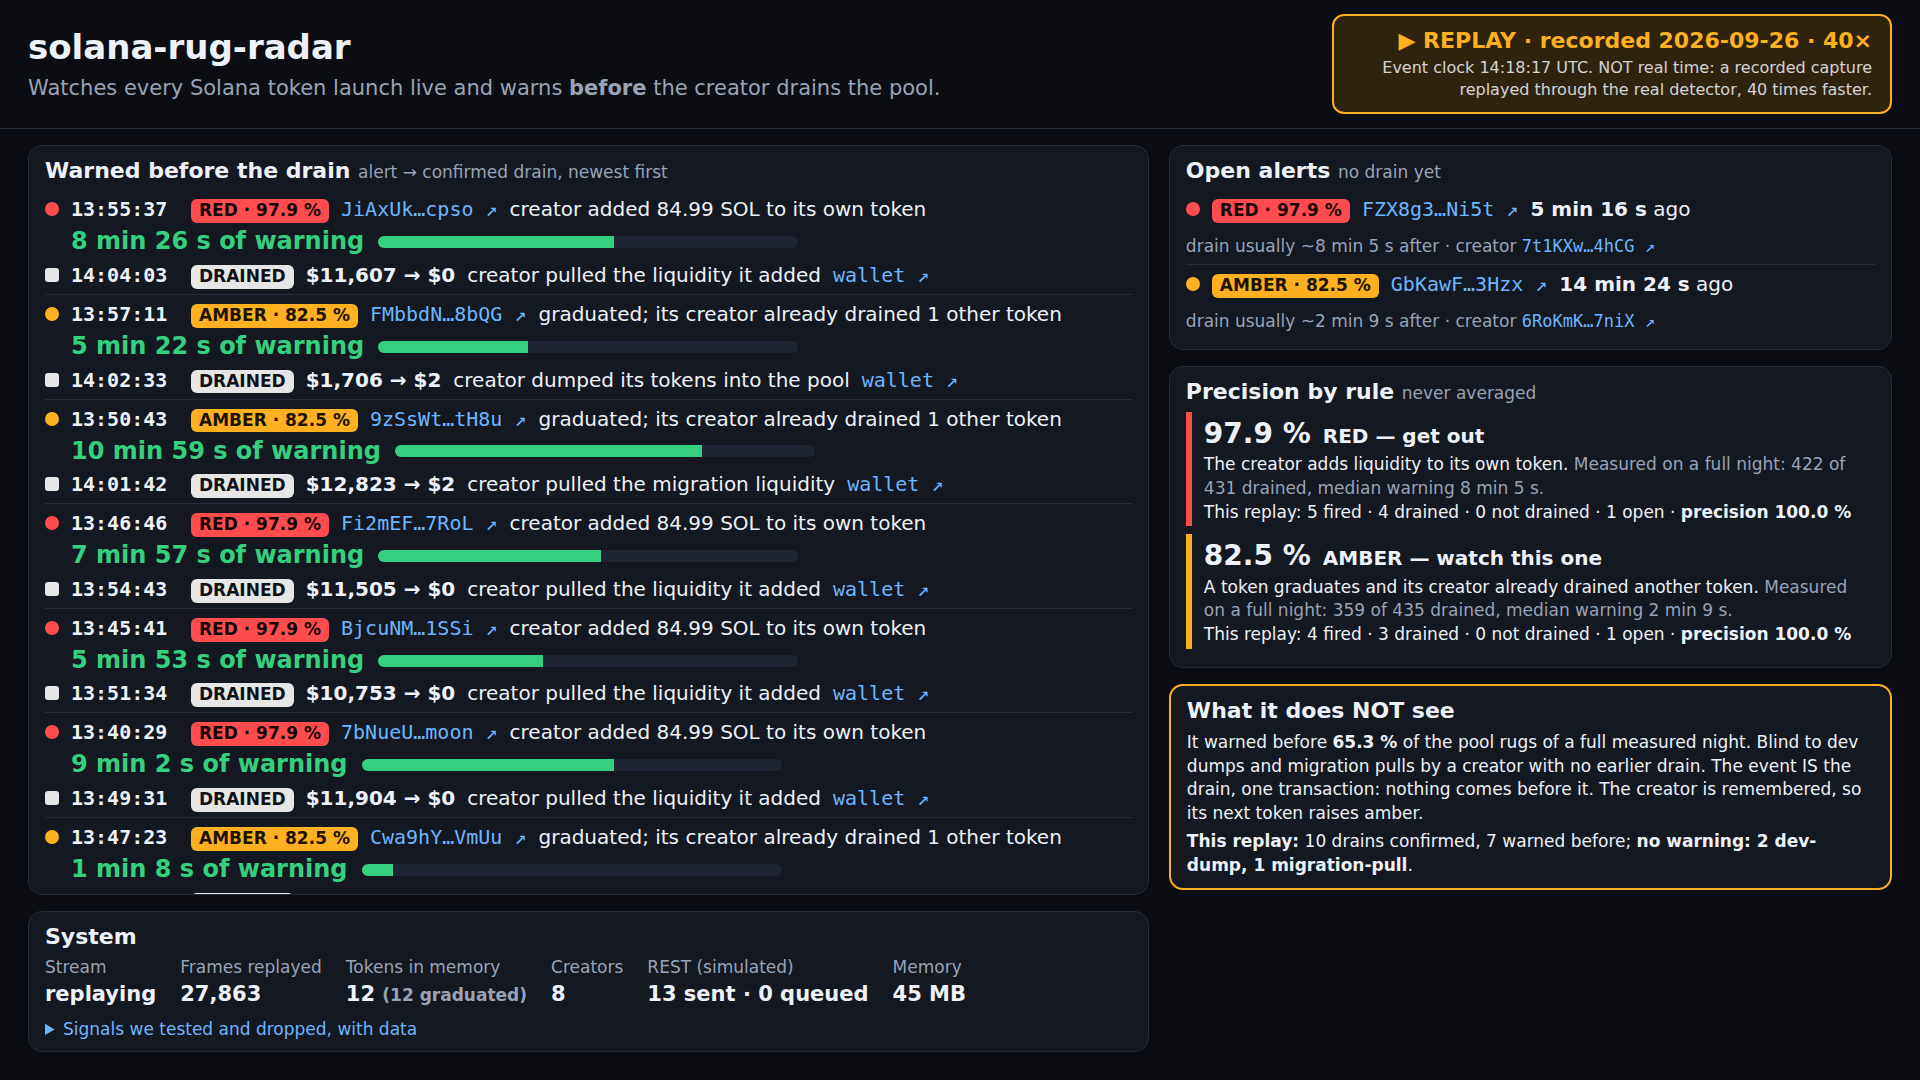
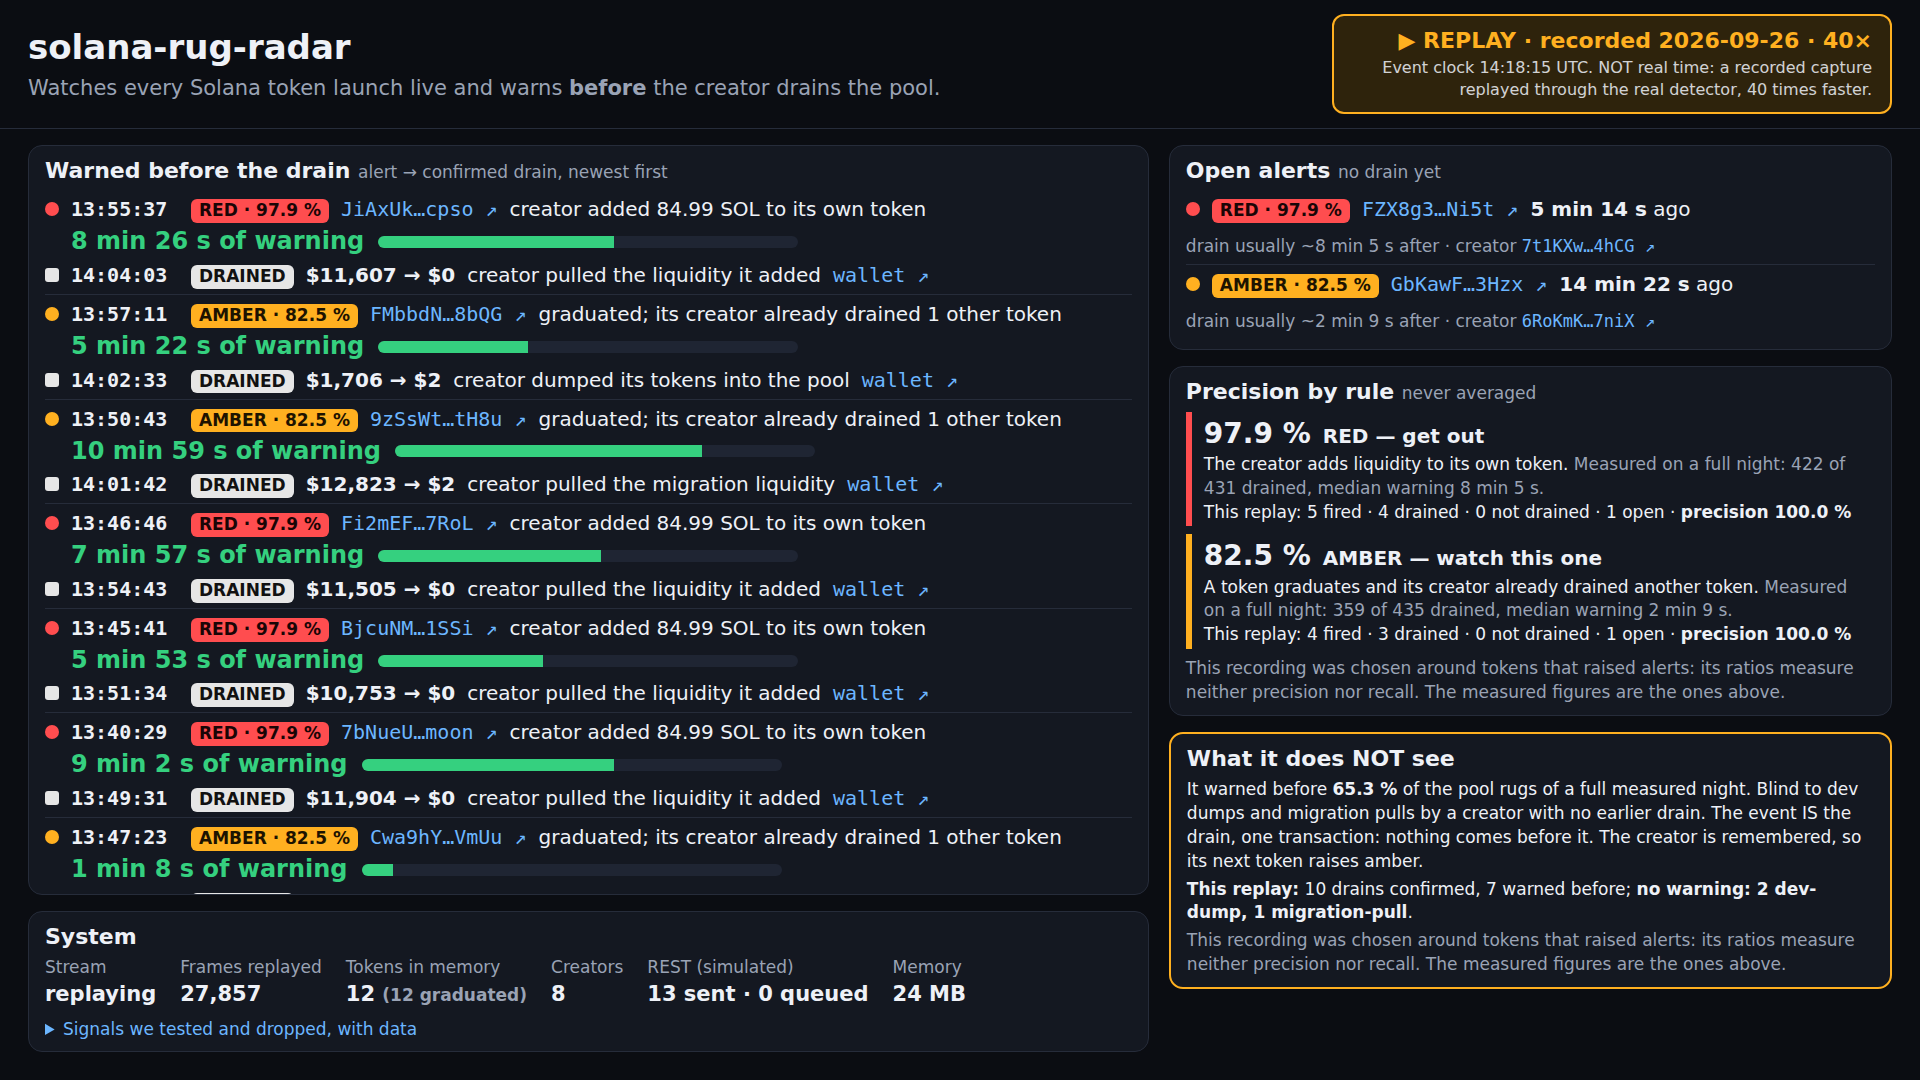
Dashboard: say the replay's own ratios are not precision or recall
The demo recording was chosen around tokens that raised alerts, so its counters run high
(13/16 drains warned, red "100 %") next to the measured 65.3 % and 97.9 %. In replay only,
a dimmed line under "Precision by rule" and "What it does NOT see" says so. It comes from
the view model (`selectionCaveat`: null live, where the bias does not exist).

Changed region(s): [[0.5938, 0.6111, 0.9688, 0.9167]]

diff --git a/src/dashboard/page.ts b/src/dashboard/page.ts
@@ -116,15 +116,16 @@ function render(v) {
   const unconf = v.unconfirmed.map((a) => '<div class="small row">' + dot(a.level) + link(a.tokenUrl, short(a.mint)) + '<span class="dim">' + hms(a.at) + ' · no drain within 60 min: counts against precision</span></div>').join('');
   $('open').innerHTML = (open || '<div class="empty">None right now.</div>') + more + (unconf ? '<div style="margin-top:6px"><b class="small">Alerted, but NOT drained</b>' + unconf + '</div>' : '');
 
+  const caveat = v.selectionCaveat === null ? '' : '<div class="small dim" style="margin-top:4px">' + esc(v.selectionCaveat) + '</div>';
   $('rules').innerHTML = v.rules.map((r) => '<div class="rule ' + r.level + '"><div class="row"><span class="big">' + pct(r.measured.precision) + '</span><b>' + esc(r.name) + '</b></div>' +
       '<div class="small">' + esc(r.meaning) + '. <span class="dim">Measured on a full night: ' + r.measured.confirmed + ' of ' + r.measured.fired + ' drained, median warning ' + dur(r.measured.medianLeadSeconds) + '.</span></div>' +
       '<div class="small">' + esc(v.scope) + ': ' + r.live.fired + ' fired · ' + r.live.confirmed + ' drained · ' + r.live.unconfirmed + ' not drained · ' + r.live.open + ' open' +
-      (r.live.precision === null ? '' : ' · <b>precision ' + pct(r.live.precision) + '</b>') + '</div></div>').join('');
+      (r.live.precision === null ? '' : ' · <b>precision ' + pct(r.live.precision) + '</b>') + '</div></div>').join('') + caveat;
 
   const s = v.blind.session;
   const unwarned = Object.entries(s.unwarnedByMechanism).map(([k, n]) => n + ' ' + esc(k)).join(', ');
   $('blind').innerHTML = '<h2>What it does NOT see</h2><div class="small">It warned before <b>' + pct(v.blind.measuredRecall) + '</b> of the pool rugs of a full measured night. Blind to ' + esc(v.blind.text) + '</div>' +
-      '<div class="small" style="margin-top:4px"><b>' + esc(v.scope) + ':</b> ' + s.rugs + ' drains confirmed, ' + s.warned + ' warned before' + (unwarned ? '; <b>no warning: ' + unwarned + '</b>' : '') + '.</div>';
+      '<div class="small" style="margin-top:4px"><b>' + esc(v.scope) + ':</b> ' + s.rugs + ' drains confirmed, ' + s.warned + ' warned before' + (unwarned ? '; <b>no warning: ' + unwarned + '</b>' : '') + '.</div>' + caveat;
 
   const y = v.system;
   const stat = (label, value) => '<div><div class="small dim">' + label + '</div><b>' + value + '</b></div>';

diff --git a/tests/dashboard/view.test.ts b/tests/dashboard/view.test.ts
@@ -5,7 +5,7 @@ import { describe, expect, it } from 'vitest';
 import { unixMillis, unixSeconds } from '../../src/core/time.js';
 import { Feed } from '../../src/dashboard/feed.js';
 import { PAGE } from '../../src/dashboard/page.js';
-import { buildView, MAX_OPEN, MEASURED_RECALL, RateMeter, type ViewInput } from '../../src/dashboard/view.js';
+import { buildView, MAX_OPEN, MEASURED_RECALL, RateMeter, SELECTION_CAVEAT, type ViewInput } from '../../src/dashboard/view.js';
 import { CONFIDENCE } from '../../src/detector/detector.js';
 import type { Alert, AlertLevel, DetectorStats, LevelStats, RugMechanism, RugRecord } from '../../src/detector/types.js';
 import { startHealthServer } from '../../src/ingest/health.js';
@@ -166,7 +166,18 @@ describe('dashboard view: live, replay and finished replay never look alike', ()
     expect(v.system.state).toBe('closed');
   });
 
-  it('before any event: no clock, no day, nothing invented', () => {
+  it('says the replay was chosen around alerted tokens (its ratios run high); never live, where it would be false', () => {
+    const live = view(feed, T, { source: source({ origin: 'live', state: 'live' }) });
+    expect(live.selectionCaveat).toBeNull();
+    expect(view(feed, T, { source: source({ origin: 'live', state: 'reconnecting' }), warmingUp: true }).selectionCaveat).toBeNull();
+    for (const state of ['replaying', 'closed'] as const) {
+      expect(view(feed, T, { source: source({ state }) }).selectionCaveat).toBe(SELECTION_CAVEAT);
+    }
+    expect(SELECTION_CAVEAT).toMatch(/chosen around tokens that raised alerts/);
+    expect(SELECTION_CAVEAT).toMatch(/neither precision nor recall/);
+  });
+
+    it('before any event: no clock, no day, nothing invented', () => {
     const v = view(new Feed(), null);
     expect(v).toMatchObject({ clock: null, day: null, sequences: [], open: [], unconfirmed: [] });
   });

diff --git a/src/dashboard/view.ts b/src/dashboard/view.ts
@@ -101,6 +101,11 @@ export interface DashboardView {
   readonly speed: number | null;
   /** What "so far" counts: this replay, or live including the registry's reloaded days. */
   readonly scope: string;
+  /**
+   * Replay only (null live): the demo recording was chosen around tokens that raised alerts, so its
+   * own ratios (drains warned, precision so far) run high and measure nothing. Live has no such bias.
+   */
+  readonly selectionCaveat: string | null;
   /** UTC date of the recording (replay) or of the stream. */
   readonly day: string | null;
   /** Event time, seconds. */
@@ -152,6 +157,9 @@ const MECHANISM: Record<RugMechanism, string> = {
   'sell-off': 'sold off by other wallets',
   'third-party-remove': 'liquidity removed by another wallet',
 };
+
+export const SELECTION_CAVEAT =
+  'This recording was chosen around tokens that raised alerts: its ratios measure neither precision nor recall. The measured figures are the ones above.';
 
 export const DROPPED_SIGNALS: readonly { signal: string; why: string }[] = [
   { signal: '> 10 launches in 24 h (alone)', why: '1.0 % precision: serial launchers mostly spam tokens that never graduate' },
@@ -262,6 +270,7 @@ export function buildView(input: ViewInput): DashboardView {
     connected: mode === 'live' && (source.state === 'live' || source.state === 'backfilling'),
     speed: mode === 'live' ? null : input.speed,
     scope: mode === 'live' ? `Live, incl. the saved last ${input.historyDays} days` : 'This replay',
+    selectionCaveat: mode === 'live' ? null : SELECTION_CAVEAT,
     day: clock === null ? null : new Date(clock * 1000).toISOString().slice(0, 10),
     clock,
     sequences,
